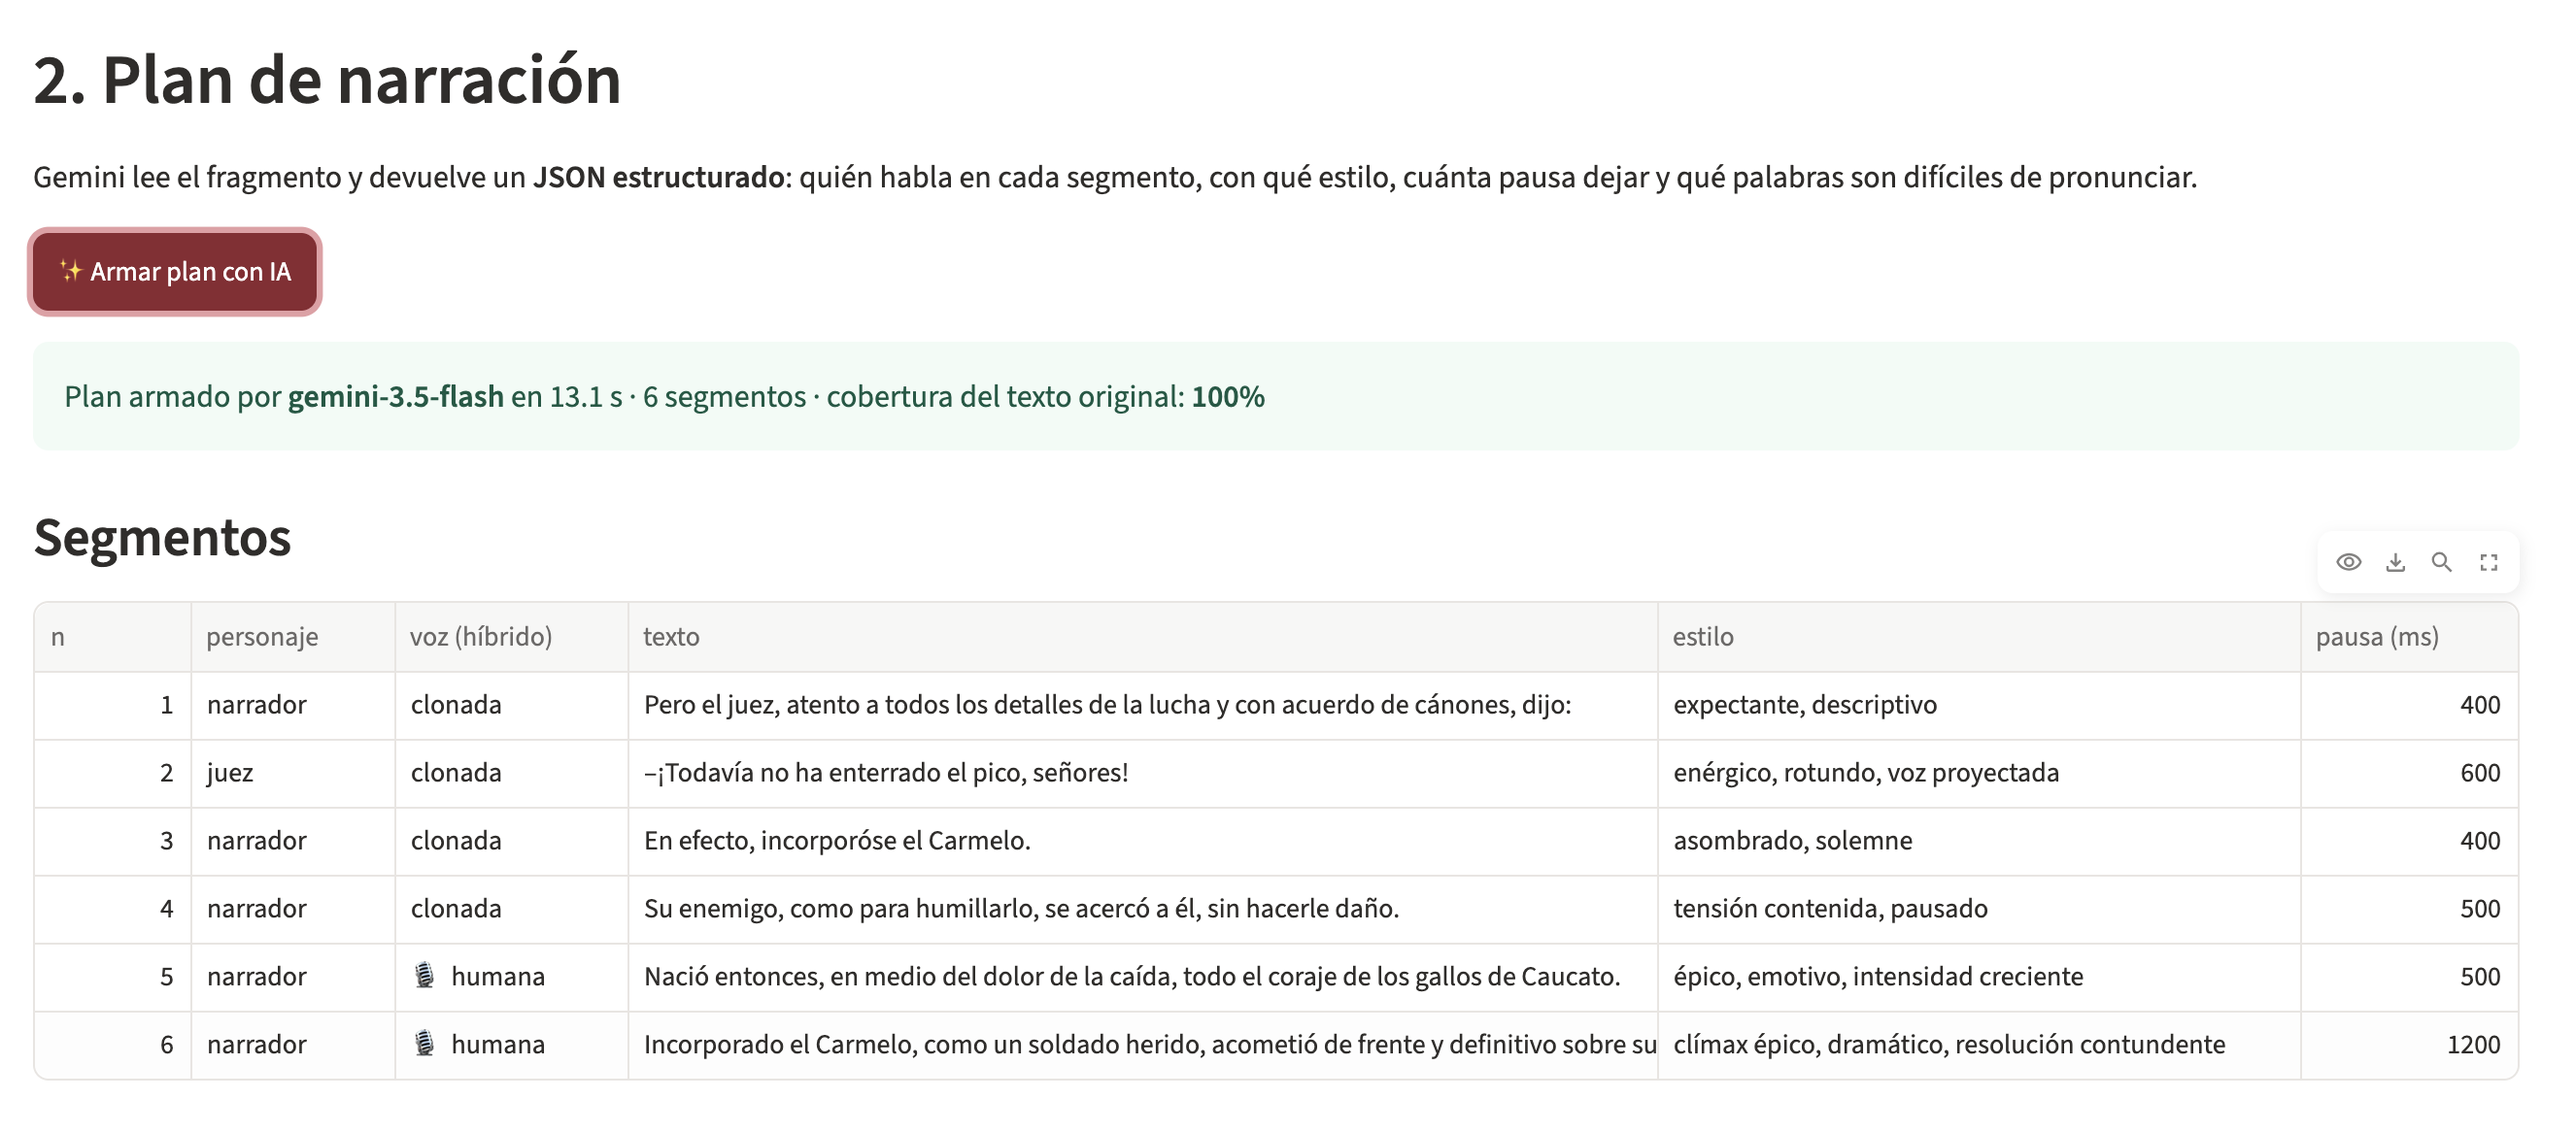
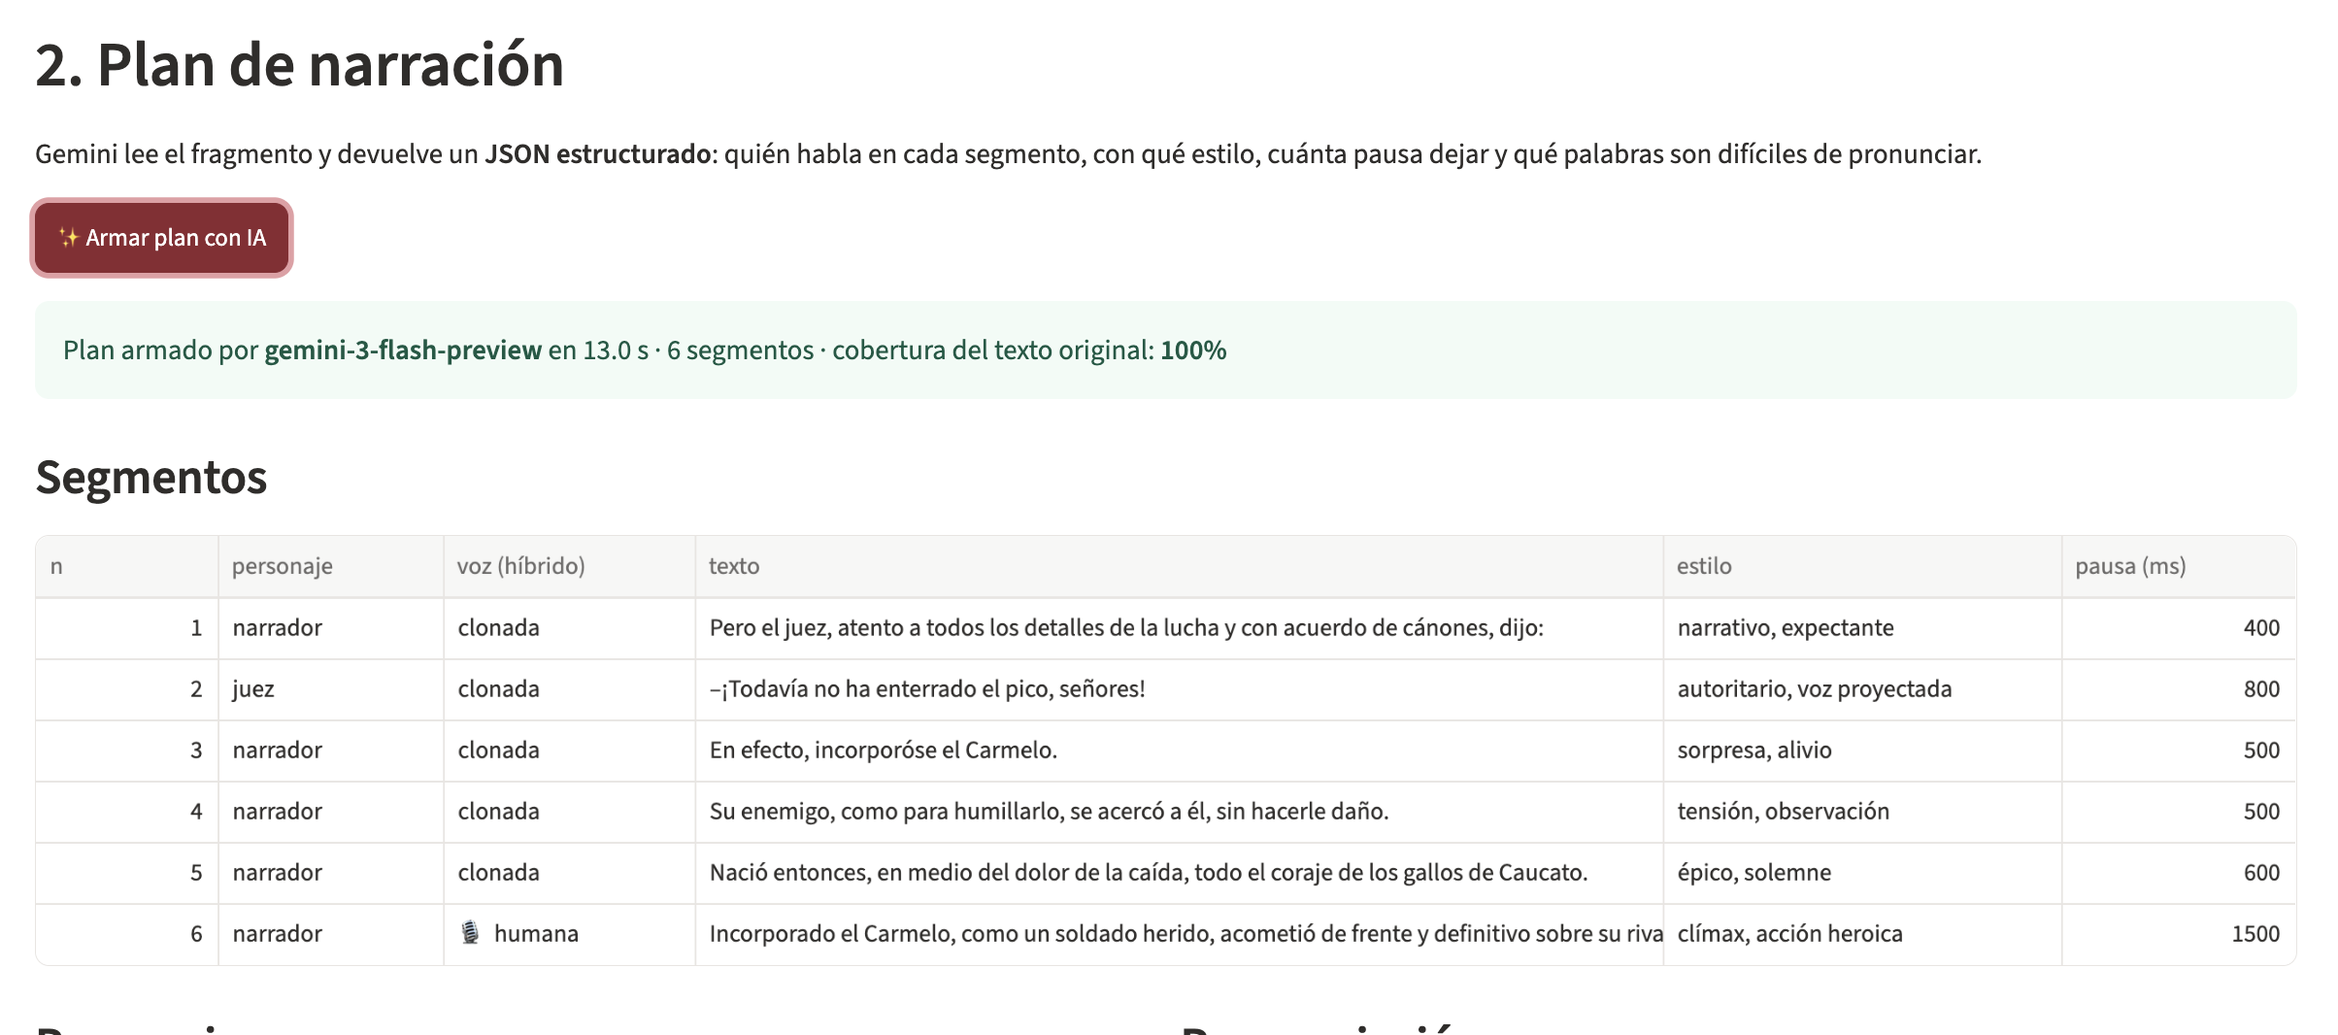
README: capturas 1 a 3 actualizadas (precios en dólares y opción híbrida plegada)

diff --git a/README.md b/README.md
@@ -69,7 +69,7 @@ Cubro producto, ingeniería, diseño y ventas con agentes de IA: Claude Code com
 
 **2. Reparto y precio:** cada personaje recibe una voz clonada con permiso, y la app calcula cuánto costaría el texto con voz clonada, en estudio o con la opción híbrida.
 
-![Reparto y calculadora de precios](docs/capturas/2-reparto-plan-hibrido-y-precios.png)
+![Reparto y calculadora de precios](docs/capturas/2-reparto-y-precio.png)
 
 **3. Narración:** el audio de la escena lleva el aviso «Voz generada con IA»; todos sus segmentos están clonados. En una sección plegable, la app muestra también la opción híbrida.
 
